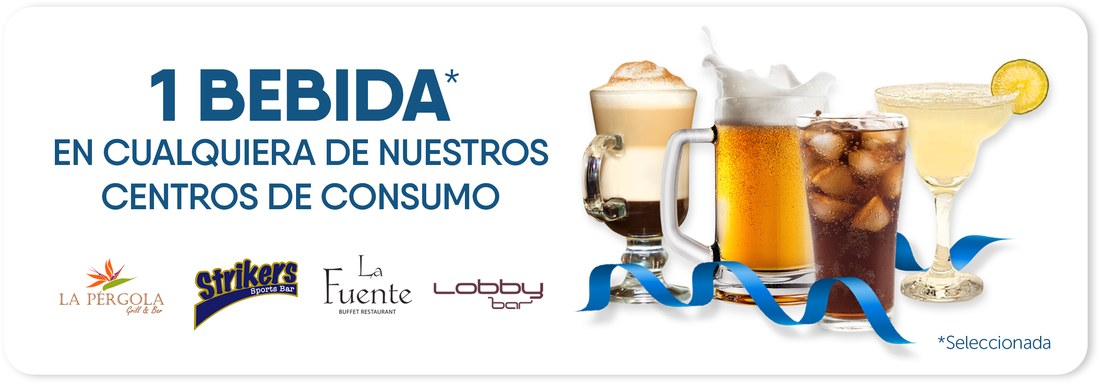
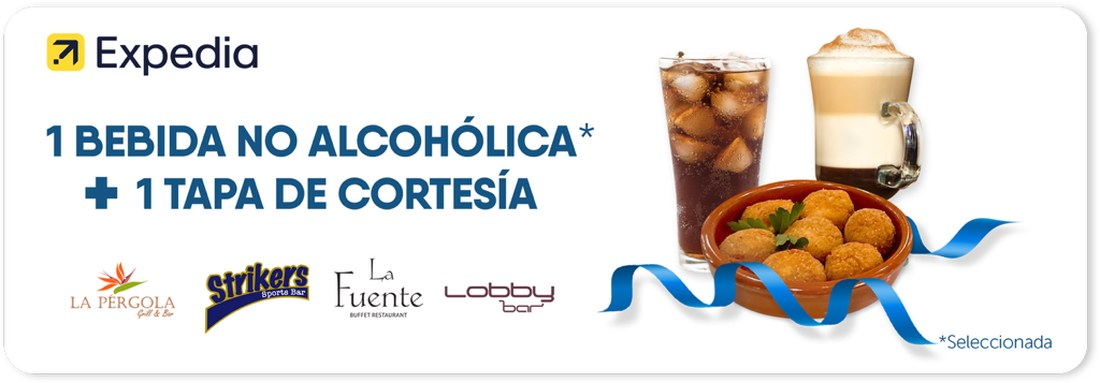
Cambio de prefijo

diff --git a/lib/email.ts b/lib/email.ts
@@ -10,6 +10,7 @@ const emailCopy = {
     greeting: (name?: string | null) => (name ? `Hola ${name},` : "Hola,"),
     body: "Gracias por registrarte. Este es tu cupón de bienvenida para que lo disfrutes durante tu estancia en Barceló Guatemala City. Solo muestra tu código para canjearlo.",
     codeLabel: "Tu código",
+    validity: "Válido por 1 semana a partir de hoy.",
     note: "Guarda este código. Te enviaremos también futuras ofertas exclusivas.",
     footer1: "Barceló Guatemala City · Ciudad de Guatemala",
     footer2:
@@ -23,6 +24,7 @@ const emailCopy = {
     greeting: (name?: string | null) => (name ? `Hi ${name},` : "Hi,"),
     body: "Thanks for signing up. This is your welcome coupon to enjoy during your stay at Barceló Guatemala City. Just show your code to redeem it.",
     codeLabel: "Your code",
+    validity: "Valid for 1 week from today.",
     note: "Save this code. We'll also send you future exclusive offers.",
     footer1: "Barceló Guatemala City · Guatemala City",
     footer2:
@@ -64,11 +66,12 @@ export function couponEmailHtml({
         <tr><td style="padding:0 40px 32px 40px;">
           <table role="presentation" width="100%" cellpadding="0" cellspacing="0" style="border:1px solid #e3e0d8;border-radius:12px;background-color:#ffffff;overflow:hidden;">
             <tr><td style="padding:0;line-height:0;">
-              <img src="${bannerSrc}" alt="1 bebida en cualquiera de nuestros centros de consumo" width="518" style="display:block;width:100%;height:auto;border:0;" />
+              <img src="${bannerSrc}" alt="1 bebida no alcohólica + 1 tapa de cortesía en nuestros centros de consumo" width="518" style="display:block;width:100%;height:auto;border:0;" />
             </td></tr>
             <tr><td style="padding:22px 24px;text-align:center;background-color:#f6f4ef;border-top:2px dashed #c9c5bb;">
               <p style="margin:0 0 6px 0;font-family:Helvetica,Arial,sans-serif;font-size:12px;letter-spacing:1.5px;text-transform:uppercase;color:#8e9091;font-weight:bold;">${c.codeLabel}</p>
-              <p style="margin:0;font-family:'Courier New',Courier,monospace;font-size:32px;font-weight:bold;letter-spacing:3px;color:#14323d;">${couponCode}</p>
+              <p style="margin:0 0 10px 0;font-family:'Courier New',Courier,monospace;font-size:32px;font-weight:bold;letter-spacing:3px;color:#14323d;">${couponCode}</p>
+              <p style="margin:0;font-family:Helvetica,Arial,sans-serif;font-size:12px;font-weight:bold;color:#c99a3f;">${c.validity}</p>
             </td></tr>
           </table>
         </td></tr>
